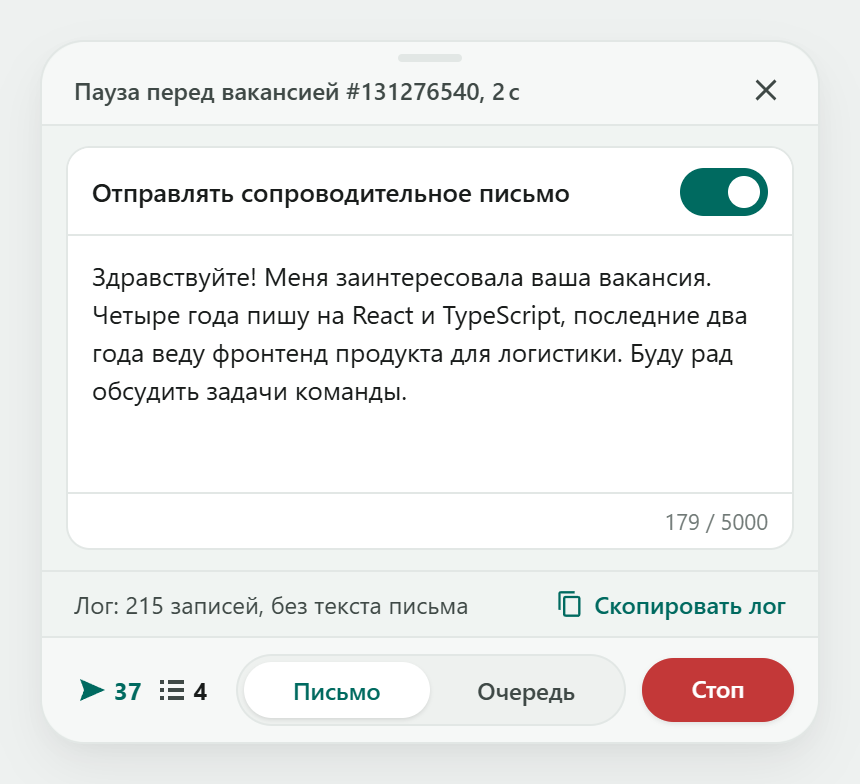
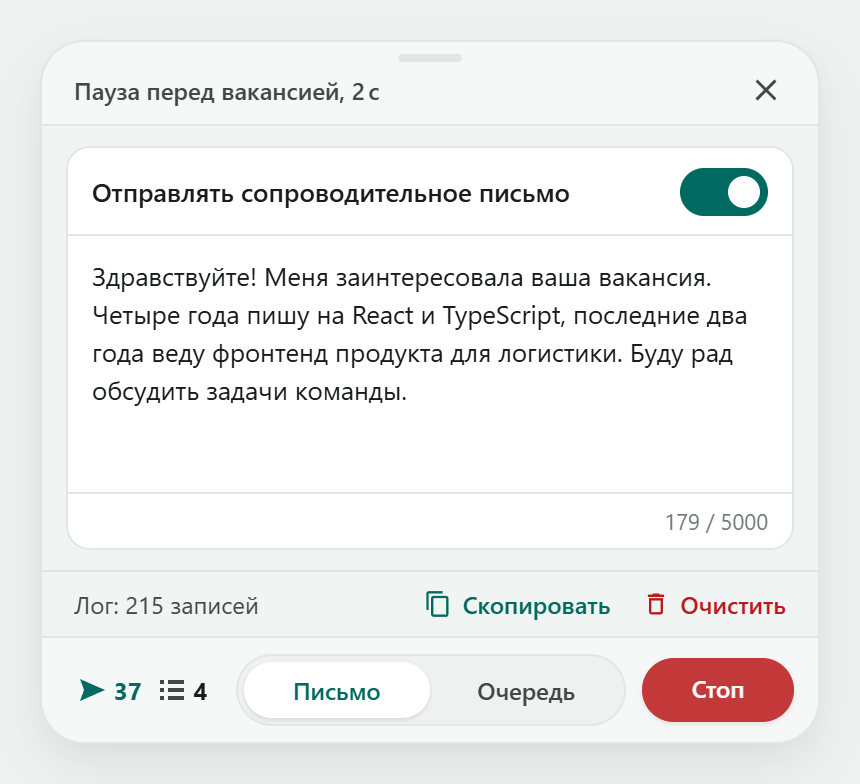
feat(hud): clear log button, status line without vacancy id, release 0.2.7
- Log row shows "Лог: N записей" with "Скопировать" and a red "Очистить"; the note about the letter moved to the tooltip
- Clearing takes two clicks, like "Очистить всё" in the queue, and writes a log_cleared entry with the version first
- The clear button hides when only that mark is left
- The status line no longer shows the vacancy id
- README describes the clear button; panel screenshots retaken

Changed region(s): [[0.3023, 0.7347, 0.907, 0.7959], [0.393, 0.0918, 0.6047, 0.1224]]

diff --git a/hh-apply-assistant.user.js b/hh-apply-assistant.user.js
@@ -1,7 +1,7 @@
 // ==UserScript==
 // @name         HH Apply Assistant
 // @namespace    https://github.com/tgeruzov/hh-apply-assistant
-// @version      0.2.6
+// @version      0.2.7
 // @author       Timur Geruzov
 // @description  Автоматические отклики на вакансии hh.ru из поиска. Вакансии с тестами и анкетами откладывает в очередь для ручного отклика
 // @license      GPL-3.0-only
@@ -3238,7 +3238,13 @@ function formatTime(dOrTs = new Date()) {
     clearManualQueue: () => ManualQueue.clear(),
     on: (evt, fn) => events.on(evt, fn),
     off: (evt, fn) => events.off(evt, fn),
-    dumpLog: () => hhaDumpLog()
+    dumpLog: () => hhaDumpLog(),
+    // The first entry after a clear says so, or a log sent later would seem cut off.
+    clearLog: () => {
+      hhaClearLog();
+      hhaLog('info', 'log_cleared', { version: VERSION });
+      return true;
+    }
   };
 
   const publicApi = Object.freeze({
@@ -3585,6 +3591,7 @@ function formatTime(dOrTs = new Date()) {
     send: `<svg width="14" height="14" viewBox="0 0 14 14" fill="currentColor" aria-hidden="true"><path d="M1 1.5 13.5 7 1 12.5 3 7z"/></svg>`,
     list: `<svg width="14" height="14" viewBox="0 0 14 14" fill="currentColor" shape-rendering="crispEdges" aria-hidden="true"><rect x="1" y="2" width="2" height="2"/><rect x="5" y="2" width="8" height="2"/><rect x="1" y="6" width="2" height="2"/><rect x="5" y="6" width="8" height="2"/><rect x="1" y="10" width="2" height="2"/><rect x="5" y="10" width="8" height="2"/></svg>`,
     copy: `<svg width="14" height="14" viewBox="0 0 24 24" fill="currentColor" aria-hidden="true"><path d="M16 1H4c-1.1 0-2 .9-2 2v14h2V3h12V1zm3 4H8c-1.1 0-2 .9-2 2v14c0 1.1.9 2 2 2h11c1.1 0 2-.9 2-2V7c0-1.1-.9-2-2-2zm0 16H8V7h11v14z"/></svg>`,
+    trash: `<svg width="14" height="14" viewBox="0 0 24 24" fill="currentColor" aria-hidden="true"><path d="M6 19c0 1.1.9 2 2 2h8c1.1 0 2-.9 2-2V7H6v12zM8 9h8v10H8V9zm7.5-5-1-1h-5l-1 1H5v2h14V4z"/></svg>`,
     inboxEmpty: `<svg width="28" height="28" viewBox="0 0 24 24" fill="currentColor"><path d="M20 2H4c-1.1 0-2 .9-2 2v3.01c0 .72.43 1.34 1.04 1.63L3 20c0 1.1.9 2 2 2h14c1.1 0 2-.9 2-2l-.04-11.36c.61-.29 1.04-.91 1.04-1.63V4c0-1.1-.9-2-2-2zm-1 18H5l.04-11H19l-.04 11zM19 7H5V4h14v3zm-3 5H8v-2h8v2z"/></svg>`
   };
 
@@ -4413,6 +4420,37 @@ function formatTime(dOrTs = new Date()) {
     .hha-btn-copy-log:focus-visible {
       outline: none;
       box-shadow: 0 0 0 2px var(--md-sys-color-surface), 0 0 0 4px var(--md-sys-color-primary);
+    }
+
+    .hha-log-row-actions {
+      display: flex;
+      align-items: center;
+      flex-shrink: 0;
+    }
+
+    .hha-btn-clear-log {
+      color: var(--md-sys-color-error);
+    }
+
+    .hha-btn-clear-log[hidden] {
+      display: none;
+    }
+
+    .hha-btn-clear-log:hover,
+    .hha-btn-clear-log.is-confirming {
+      background: var(--md-sys-color-error-container);
+    }
+
+    .hha-btn-clear-log:active {
+      background: color-mix(in srgb, var(--md-sys-color-error-container) 85%, var(--md-sys-color-error));
+    }
+
+    .hha-btn-clear-log.is-confirming svg {
+      display: none;
+    }
+
+    .hha-btn-clear-log:focus-visible {
+      box-shadow: 0 0 0 2px var(--md-sys-color-surface), 0 0 0 4px var(--md-sys-color-error);
     }
 
     .hha-island-footer {
@@ -6289,8 +6327,11 @@ function formatTime(dOrTs = new Date()) {
             </div>
 
             <div class="hha-log-row" data-el="log-row">
-              <span class="hha-log-row-text" data-el="log-row-text">Лог работы, без текста письма</span>
-              <button type="button" class="hha-btn-copy-log" data-action="copy-log" data-el="copy-log-btn">${ICONS.copy}<span data-el="copy-log-label">Скопировать лог</span></button>
+              <span class="hha-log-row-text" data-el="log-row-text" data-tooltip="Текст письма в лог не попадает">Лог</span>
+              <span class="hha-log-row-actions">
+                <button type="button" class="hha-btn-copy-log" data-action="copy-log" data-el="copy-log-btn">${ICONS.copy}<span data-el="copy-log-label">Скопировать</span></button>
+                <button type="button" class="hha-btn-copy-log hha-btn-clear-log" data-action="clear-log" data-el="clear-log-btn">${ICONS.trash}<span data-el="clear-log-label">Очистить</span></button>
+              </span>
             </div>
 
             <!-- Bottom Dock: Counter on the Left + Tabs in Center + Quick Action Button on the Right -->
@@ -6773,7 +6814,8 @@ function formatTime(dOrTs = new Date()) {
         'clear-queue': (tgt, ev) => { ev.stopPropagation(); this._handleClearQueueAction(tgt); },
         'open-vacancy': (tgt, ev) => { this._handleOpenVacancyAction(tgt, ev); },
         'delete-queue-item': (tgt, ev) => { ev.stopPropagation(); this._handleDeleteQueueItemAction(tgt); },
-        'copy-log': (tgt, ev) => { ev.stopPropagation(); this._copyLog(tgt); }
+        'copy-log': (tgt, ev) => { ev.stopPropagation(); this._copyLog(tgt); },
+        'clear-log': (tgt, ev) => { ev.stopPropagation(); this._handleClearLogAction(tgt); }
       };
 
       const handler = actionMap[action];
@@ -6855,8 +6897,39 @@ function formatTime(dOrTs = new Date()) {
     _syncLogRow() {
       const textEl = this.#shadow?.querySelector('[data-el="log-row-text"]');
       if (!textEl || typeof this.#assistant?.dumpLog !== 'function') return;
-      const count = this.#assistant.dumpLog().split('\n').filter(Boolean).length;
-      textEl.textContent = `Лог: ${count} ${pluralRu(count, 'запись', 'записи', 'записей')}, без текста письма`;
+      const lines = this.#assistant.dumpLog().split('\n').filter(Boolean);
+      const count = lines.length;
+      textEl.textContent = `Лог: ${count} ${pluralRu(count, 'запись', 'записи', 'записей')}`;
+      // Nothing to clear when the log holds only the mark of the last clear.
+      const clearBtn = this.#shadow.querySelector('[data-el="clear-log-btn"]');
+      if (clearBtn) clearBtn.hidden = !lines.some(l => !l.includes('"event":"log_cleared"'));
+    }
+
+    _resetClearLogBtn() {
+      if (this._logConfirmTimer) {
+        clearTimeout(this._logConfirmTimer);
+        this._logConfirmTimer = null;
+      }
+      const btn = this.#shadow?.querySelector('[data-el="clear-log-btn"]');
+      if (!btn) return;
+      btn.classList.remove('is-confirming');
+      const label = btn.querySelector('[data-el="clear-log-label"]');
+      if (label) label.textContent = 'Очистить';
+    }
+
+    // Two clicks, like "Очистить всё" in the queue: the first asks, the second clears.
+    _handleClearLogAction(btn) {
+      if (typeof this.#assistant?.clearLog !== 'function') return;
+      if (this._logConfirmTimer) {
+        this._resetClearLogBtn();
+        this.#assistant.clearLog();
+        this._syncLogRow();
+        return;
+      }
+      btn.classList.add('is-confirming');
+      const label = btn.querySelector('[data-el="clear-log-label"]');
+      if (label) label.textContent = 'Точно очистить?';
+      this._logConfirmTimer = setTimeout(() => this._resetClearLogBtn(), 3000);
     }
 
     _copyLog(btnEl) {
@@ -6868,7 +6941,7 @@ function formatTime(dOrTs = new Date()) {
         if (this._copyLogTimer) clearTimeout(this._copyLogTimer);
         label.textContent = msg;
         this._copyLogTimer = setTimeout(() => {
-          label.textContent = 'Скопировать лог';
+          label.textContent = 'Скопировать';
           this._copyLogTimer = null;
         }, 2000);
       };
@@ -7359,8 +7432,6 @@ function formatTime(dOrTs = new Date()) {
         const a = this._activity;
         if (!a) return 'Работаю';
         let text = ACTIVITY_TEXT[a.code] || 'Работаю';
-        // Cards without a link get a hash instead of an id; it means nothing to the user.
-        if (a.vid && /^\d+$/.test(a.vid)) text += ` #${a.vid}`;
         const secondsLeft = a.until ? Math.ceil((a.until - Date.now()) / 1000) : 0;
         if (secondsLeft > 0) text += `, ${formatSeconds(secondsLeft)}`;
         return text;

diff --git a/README.md b/README.md
@@ -4,7 +4,7 @@
 
 **Userscript для автоматизации откликов на [hh.ru](https://hh.ru)**
 
-![Version](https://img.shields.io/badge/version-0.2.6-blue?style=flat-square)
+![Version](https://img.shields.io/badge/version-0.2.7-blue?style=flat-square)
 [![License: GPL-3.0-only](https://img.shields.io/badge/License-GPL--3.0--only-blue?style=flat-square)](./LICENSE)
 
 </div>
@@ -173,7 +173,7 @@ Chrome 137 и более ранние версии (версия видна на
 * **Страница зависла:** на странице вакансии скрипт ждёт следующего шага не больше 15 секунд, потом возвращается в поиск и считает это неудачной попыткой (после трёх вакансия уходит в очередь). На остальных страницах ждёт 60 секунд, потом перезагружает страницу (до двух раз) и пробует продолжить. Если не помогло, скрипт остановится с ошибкой. Если страница не догрузилась, скрипт на ней не запустится - обновите её руками.
 * **Ошибка в виджете:** если скрипт остановился из-за сбоя, счётчик в виджете краснеет, а кнопка меняется на `Сброс`. Откройте виджет - там карточка: что случилось и что делать. `Продолжить` сбрасывает состояние и сразу запускает скрипт заново, `Сброс` только сбрасывает. Обычные повторы попыток и вакансии, ушедшие в очередь, карточкой не показываются, они есть в подробном логе.
 * **Отчёт об ошибке:** кнопка `Скопировать` кладёт в буфер код ошибки, сообщение, URL, User-Agent и технические детали (id вакансии, фрагмент HTML страницы). Текст собирается автоматически, поэтому прочитайте его перед публикацией: в URL могут быть параметры вашего поиска. Вставьте отчёт в [Issue на GitHub](https://github.com/tgeruzov/hh-apply-assistant/issues).
-* **Подробный лог:** если ошибка плавающая или описания из виджета недостаточно - откройте виджет и нажмите `Скопировать лог` внизу панели. В буфер попадёт лог: последние 600 записей, они сохраняются между сессиями. Если браузер не дал доступ к буферу обмена, кнопка так и напишет, а лог выведется в консоль (<kbd>F12</kbd>, вкладка `Console`). Из консоли лог можно получить и напрямую: `copy(hhaDumpLog())`, очистить: `hhaClearLog()`.
+* **Подробный лог:** если ошибка плавающая или описания из виджета недостаточно - откройте виджет и нажмите `Скопировать` в строке лога внизу панели. В буфер попадёт лог: последние 600 записей, они сохраняются между сессиями. Если браузер не дал доступ к буферу обмена, кнопка так и напишет, а лог выведется в консоль (<kbd>F12</kbd>, вкладка `Console`). Кнопка `Очистить` рядом стирает лог после подтверждения, например чтобы в отчёт попал только новый прогон; первой записью после очистки идёт отметка `log_cleared`. Из консоли лог можно получить и напрямую: `copy(hhaDumpLog())`, очистить: `hhaClearLog()`.
 
   Если скрипт пропускает подходящие вакансии или зря отправляет их в очередь, приложите этот лог к issue: для каждого такого решения в нём записано, какое правило сработало и на каком тексте страницы.
 
